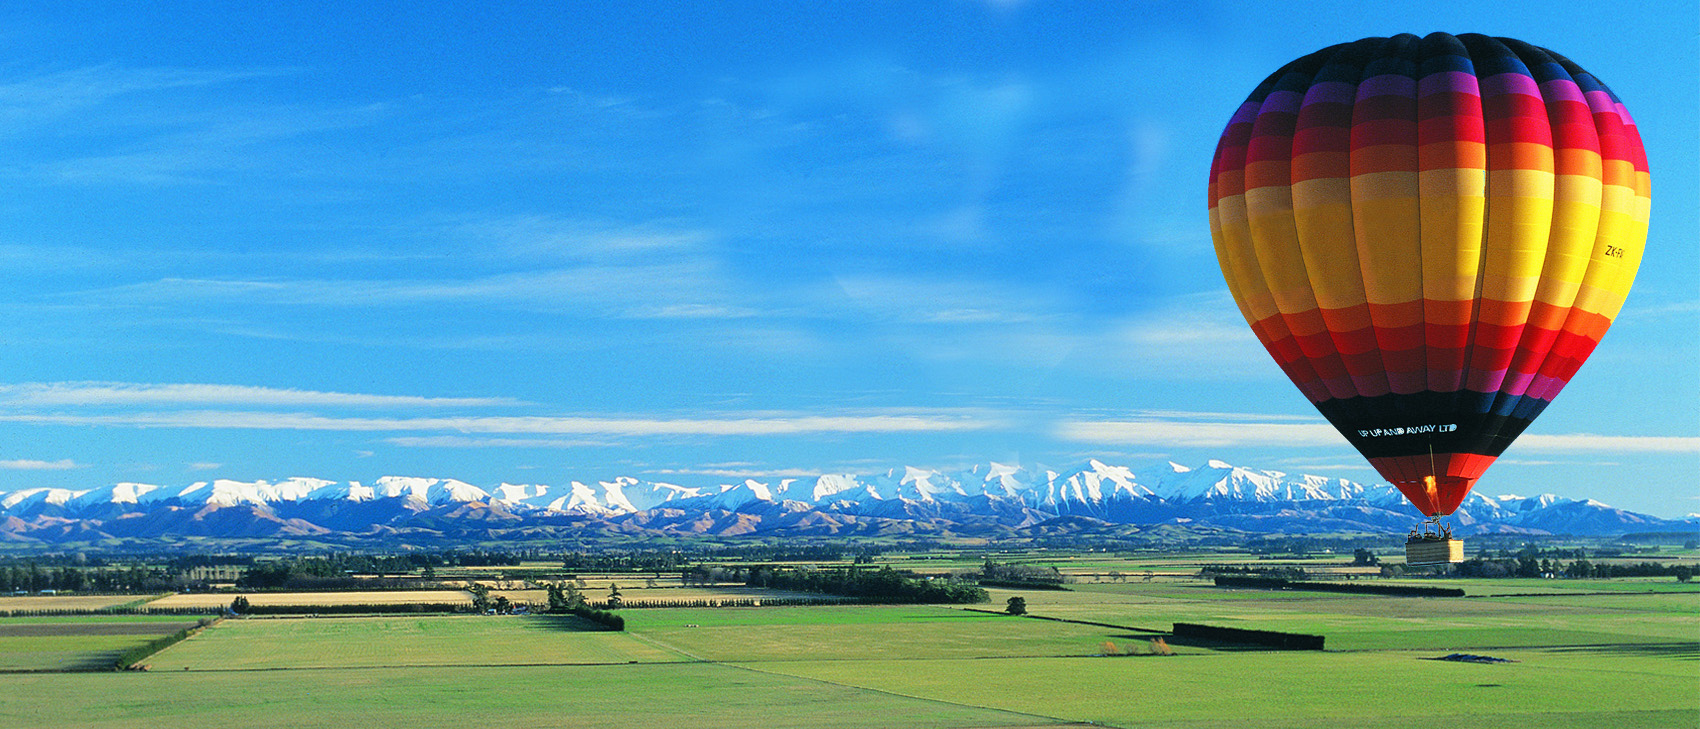
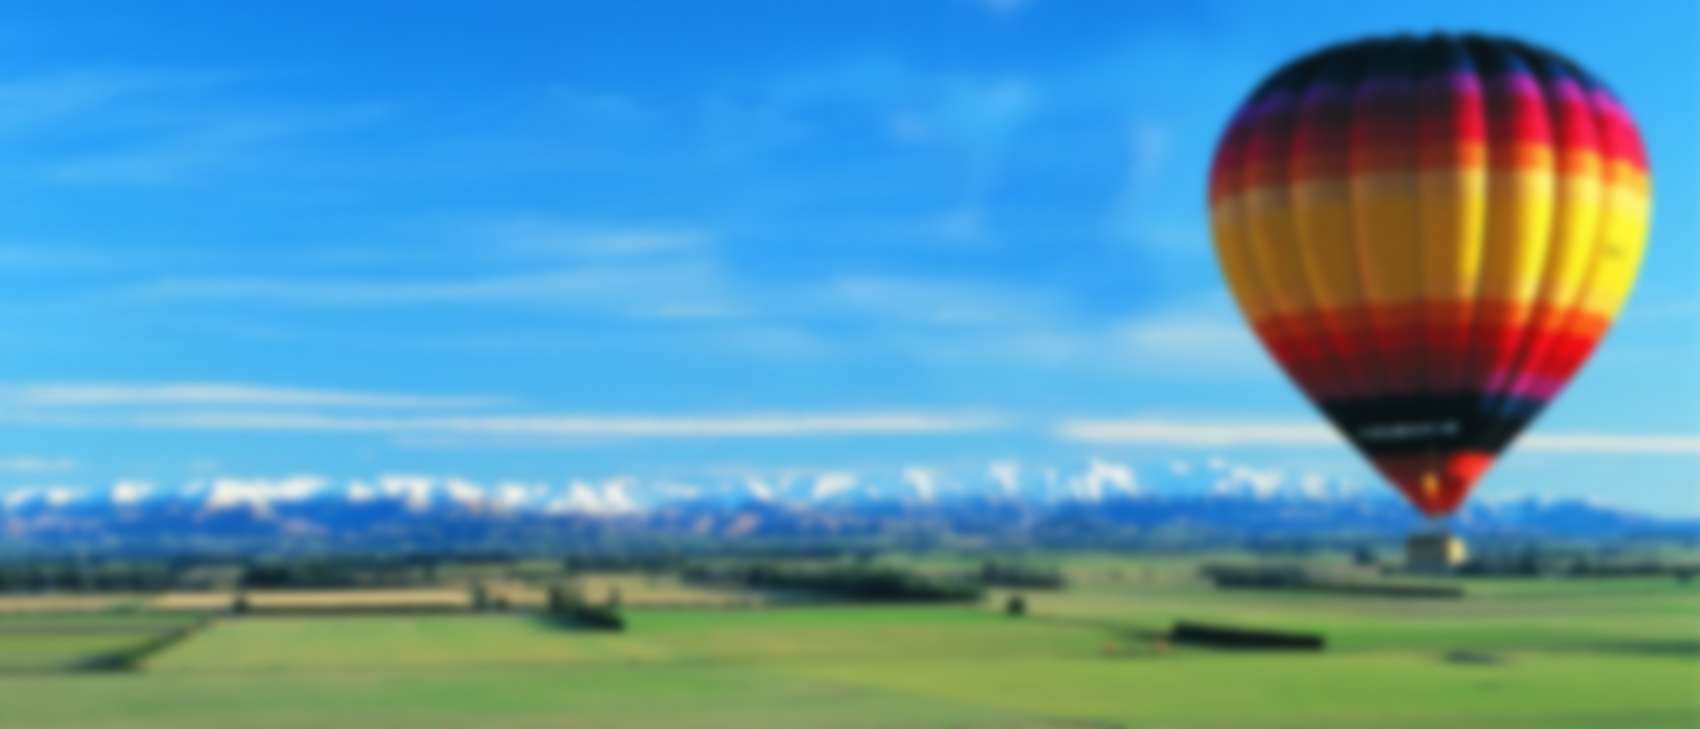
修改登录页面

diff --git a/public/css/style.css b/public/css/style.css
@@ -2115,8 +2115,14 @@ ul#contact-info {
     font-size: 12px;
     background: url(../img/bg_login.jpg) center center no-repeat;
     background-size: cover;
+    /*filter: url(../img/bg_login.jpg#blur); !* FireFox, Chrome, Opera *!*/
 
-    /*-webkit-filter: blur(5px); filter: blur(5px);*/
+    /*-webkit-filter: blur(2px); !* Chrome, Opera *!*/
+    /*-moz-filter: blur(2px);*/
+    /*-ms-filter: blur(2px);*/
+    /*filter: blur(2px);*/
+
+    /*filter: progid:DXImageTransform.Microsoft.Blur(PixelRadius=2, MakeShadow=false); !* IE6~IE9 *!*/
 }
 
 #login {

diff --git a/resources/views/partner/index.blade.php b/resources/views/partner/index.blade.php
@@ -65,5 +65,6 @@
         .list_desc p{line-height: 22px; padding: 10px 20px 0 0; font-size: 14px;}
         .panel-cont .row{}
         .panel-cont .img_lists{ min-height: 160px;}
+        .parallax-content-1 div h1{ color:#666!important;}
     </style>
 @endsection

diff --git a/resources/views/partner/show.blade.php b/resources/views/partner/show.blade.php
@@ -50,5 +50,6 @@
         .list_desc p{line-height: 22px; padding: 10px 20px 0 0; font-size: 14px;}
         .panel-cont .row{}
         .panel-cont .img_lists{ min-height: 160px;}
+        .parallax-content-1 div h1{ color:#666!important;}
     </style>
 @endsection
